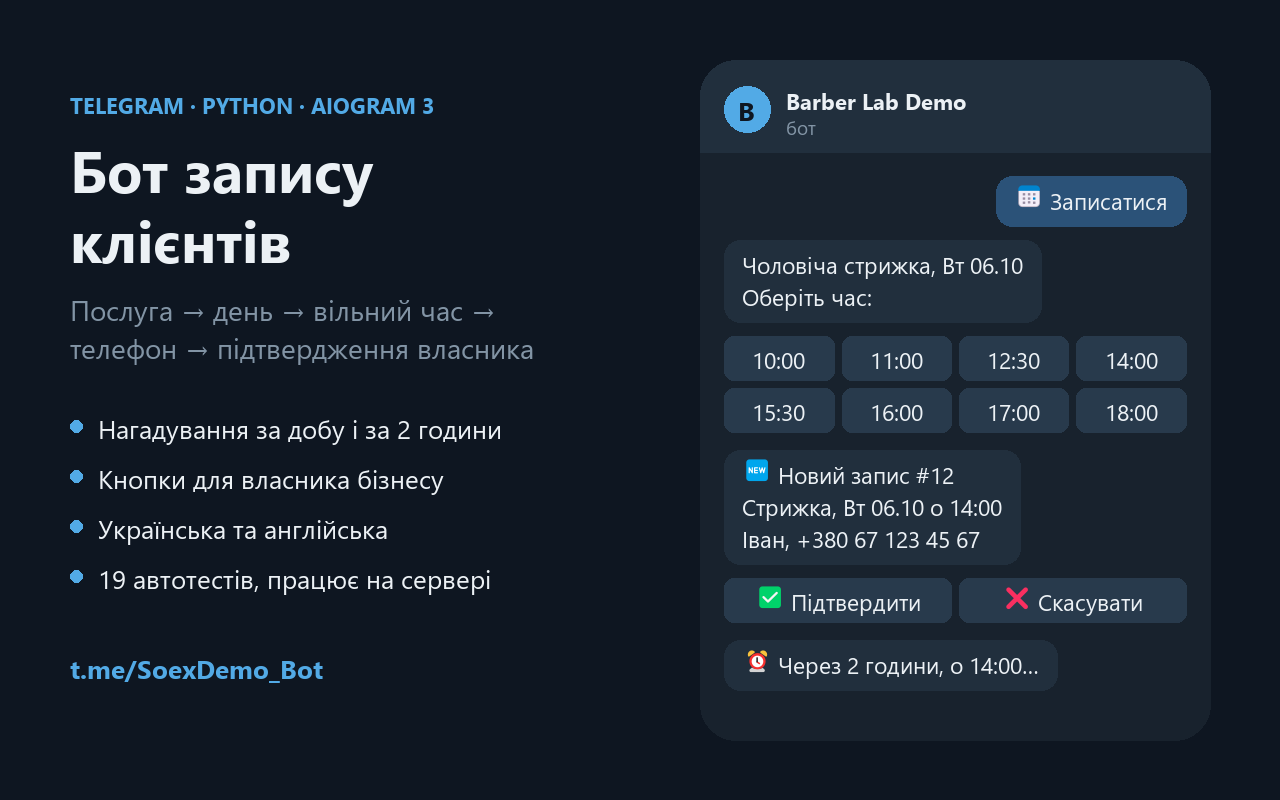
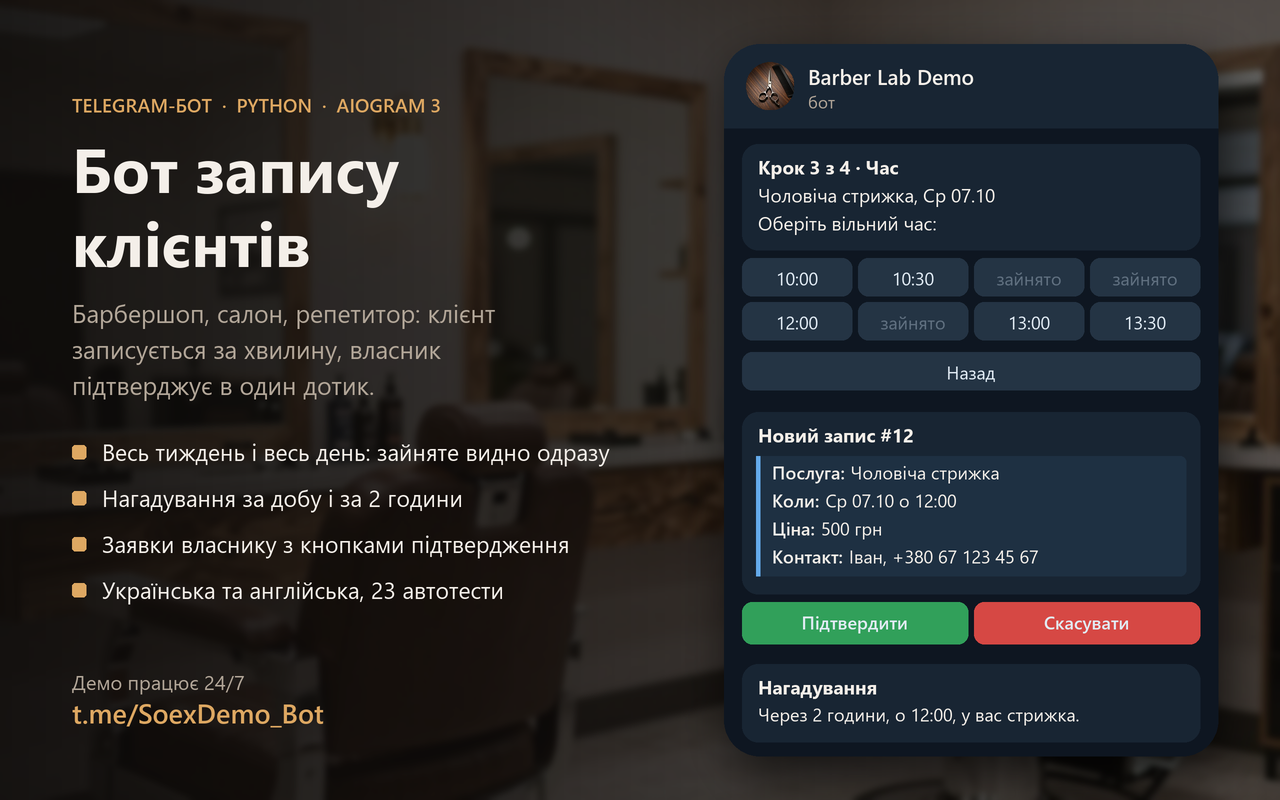
New README cover: the v2 interface over the shop photo

diff --git a/deploy/make_cover.py b/deploy/make_cover.py
@@ -1,99 +1,158 @@
-"""Portfolio cover for the booking bot: a mock Telegram chat. 1280x800, Pillow."""
-from pathlib import Path
-from PIL import Image, ImageDraw, ImageFont
+"""Portfolio cover for the booking bot: the real v2 interface over the shop photo. 1280x800, Pillow.
 
-W, H = 1280, 800
+Drawn at 2x and scaled down, so rounded corners and text edges stay smooth.
+Run: python deploy/make_cover.py
+"""
+from pathlib import Path
+
+from PIL import Image, ImageDraw, ImageFilter, ImageFont
+
+ROOT = Path(__file__).resolve().parent.parent
 OUT = Path(__file__).with_name("cover-booking-bot.png")
+S = 2                                    # supersampling factor
+W, H = 1280 * S, 800 * S
 F = "C:/Windows/Fonts/"
 
-BG = (14, 22, 33)
-CHAT = (24, 34, 45)
-BOT = (33, 47, 61)
-ME = (43, 82, 120)
-BTN = (40, 58, 76)
-ACCENT = (82, 170, 230)
-TEXT = (236, 241, 245)
-MUTED = (130, 148, 165)
+INK = (13, 11, 10)
+BRASS = (222, 168, 98)
+TEXT = (244, 239, 233)
+MUTED = (178, 166, 152)
+CHAT = (14, 22, 33)
+BUBBLE = (24, 37, 51)
+BTN = (36, 52, 68)
+BTN_TEXT = (226, 236, 245)
+BUSY = (96, 112, 128)
+QUOTE_BAR = (100, 170, 235)
+GREEN = (49, 160, 90)
+RED = (214, 72, 68)
 
-img = Image.new("RGB", (W, H), BG)
+
+def font(name, size):
+    return ImageFont.truetype(F + name, size * S)
+
+
+REG, SEMI, BOLD = "segoeui.ttf", "seguisb.ttf", "segoeuib.ttf"
+
+
+def px(*v):
+    return tuple(int(x * S) for x in v)
+
+
+# --- background: the shop photo, darkened from the left where the text sits -------
+photo = Image.open(ROOT / "assets" / "banner.jpg").convert("RGB")
+scale = max(W / photo.width, H / photo.height)
+photo = photo.resize((int(photo.width * scale), int(photo.height * scale)), Image.LANCZOS)
+photo = photo.crop(((photo.width - W) // 2, (photo.height - H) // 2,
+                    (photo.width - W) // 2 + W, (photo.height - H) // 2 + H))
+photo = photo.filter(ImageFilter.GaussianBlur(3 * S))
+
+shade = Image.new("L", (W, H))
+sd = ImageDraw.Draw(shade)
+for x in range(W):
+    k = x / W
+    sd.line([(x, 0), (x, H)], fill=int(255 * (0.94 - 0.30 * k)))   # 94% dark on the left, 64% on the right
+img = Image.composite(Image.new("RGB", (W, H), INK), photo, shade)
 d = ImageDraw.Draw(img)
-f = lambda name, size: ImageFont.truetype(F + name, size)
-EMOJI = ImageFont.truetype(F + "seguiemj.ttf", 22)
-title, sub, body, small = f("segoeuib.ttf", 58), f("segoeui.ttf", 28), f("segoeui.ttf", 23), f("segoeui.ttf", 19)
 
-# left: what it is
-x = 70
-d.text((x, 90), "TELEGRAM · PYTHON · AIOGRAM 3", font=f("segoeuib.ttf", 22), fill=ACCENT)
-d.text((x, 130), "Бот запису", font=title, fill=TEXT)
-d.text((x, 200), "клієнтів", font=title, fill=TEXT)
-d.text((x, 290), "Послуга → день → вільний час →", font=sub, fill=MUTED)
-d.text((x, 328), "телефон → підтвердження власника", font=sub, fill=MUTED)
-y = 410
-for line in ["Нагадування за добу і за 2 години", "Кнопки для власника бізнесу", "Українська та англійська", "19 автотестів, працює на сервері"]:
-    d.ellipse((x, y + 10, x + 12, y + 22), fill=ACCENT)
-    d.text((x + 28, y), line, font=f("segoeui.ttf", 26), fill=TEXT)
-    y += 50
-d.text((x, 650), "t.me/SoexDemo_Bot", font=f("segoeuib.ttf", 26), fill=ACCENT)
+# --- left: what it is -----------------------------------------------------------------
+x = 72
+d.text(px(x, 92), "TELEGRAM-БОТ  ·  PYTHON  ·  AIOGRAM 3", font=font(SEMI, 19), fill=BRASS)
+d.text(px(x, 126), "Бот запису", font=font(BOLD, 62), fill=TEXT)
+d.text(px(x, 200), "клієнтів", font=font(BOLD, 62), fill=TEXT)
+for i, line in enumerate(["Барбершоп, салон, репетитор: клієнт", "записується за хвилину, власник",
+                          "підтверджує в один дотик."]):
+    d.text(px(x, 296 + i * 36), line, font=font(REG, 25), fill=MUTED)
 
-# right: phone-like chat
-px0, py0, px1, py1 = 700, 60, 1210, 740
-d.rounded_rectangle((px0, py0, px1, py1), radius=36, fill=CHAT)
-d.rectangle((px0, py0 + 30, px1, py0 + 92), fill=BOT)
-d.rounded_rectangle((px0, py0, px1, py0 + 92), radius=36, fill=BOT)
-d.ellipse((px0 + 24, py0 + 26, px0 + 70, py0 + 72), fill=ACCENT)
-d.text((px0 + 38, py0 + 32), "B", font=f("segoeuib.ttf", 26), fill=BG)
-d.text((px0 + 86, py0 + 26), "Barber Lab Demo", font=f("segoeuib.ttf", 22), fill=TEXT)
-d.text((px0 + 86, py0 + 54), "бот", font=small, fill=MUTED)
+features = ["Весь тиждень і весь день: зайняте видно одразу",
+            "Нагадування за добу і за 2 години",
+            "Заявки власнику з кнопками підтвердження",
+            "Українська та англійська, 23 автотести"]
+y = 436
+for line in features:
+    d.rounded_rectangle(px(x, y + 9, x + 14, y + 23), radius=3 * S, fill=BRASS)
+    d.text(px(x + 30, y), line, font=font(REG, 23), fill=TEXT)
+    y += 46
 
+d.text(px(x, 668), "Демо працює 24/7", font=font(REG, 20), fill=MUTED)
+d.text(px(x, 694), "t.me/SoexDemo_Bot", font=font(SEMI, 27), fill=BRASS)
 
-def draw_line(x, y, t):
-    """Draw text; a leading emoji goes through the color emoji font."""
-    if t and ord(t[0]) > 0x2000 and not t[0].isalpha():
-        emoji, rest = t.split(" ", 1)
-        d.text((x, y + 3), emoji, font=EMOJI, embedded_color=True)
-        d.text((x + d.textlength(emoji, font=EMOJI) + 6, y), rest, font=body, fill=TEXT)
-    else:
-        d.text((x, y), t, font=body, fill=TEXT)
+# --- right: the chat, drawn like Telegram's dark theme --------------------------------------
+P0X, P0Y, P1X, P1Y = 724, 44, 1218, 756
+shadow = Image.new("L", (W, H), 0)
+ImageDraw.Draw(shadow).rounded_rectangle(px(P0X + 8, P0Y + 18, P1X + 8, P1Y + 18), radius=40 * S, fill=170)
+shadow = shadow.filter(ImageFilter.GaussianBlur(22 * S))
+img.paste(Image.new("RGB", (W, H), (0, 0, 0)), mask=shadow)
+d = ImageDraw.Draw(img)
+d.rounded_rectangle(px(P0X, P0Y, P1X, P1Y), radius=36 * S, fill=CHAT)
 
+# header with the real avatar
+d.rounded_rectangle(px(P0X, P0Y, P1X, P0Y + 84), radius=36 * S, fill=BUBBLE)
+d.rectangle(px(P0X, P0Y + 50, P1X, P0Y + 84), fill=BUBBLE)
+ava = Image.open(ROOT / "assets" / "avatar.jpg").convert("RGB").resize(px(48, 48), Image.LANCZOS)
+mask = Image.new("L", ava.size, 0)
+ImageDraw.Draw(mask).ellipse((0, 0, *ava.size), fill=255)
+img.paste(ava, px(P0X + 22, P0Y + 18), mask)
+d.text(px(P0X + 84, P0Y + 18), "Barber Lab Demo", font=font(SEMI, 21), fill=TEXT)
+d.text(px(P0X + 84, P0Y + 46), "бот", font=font(REG, 17), fill=MUTED)
 
-def line_width(t):
-    if t and ord(t[0]) > 0x2000 and not t[0].isalpha():
-        emoji, rest = t.split(" ", 1)
-        return d.textlength(emoji, font=EMOJI) + 6 + d.textlength(rest, font=body)
-    return d.textlength(t, font=body)
-
-
-def bubble(y, text_lines, mine=False):
-    w = max(line_width(t) for t in text_lines) + 36
-    h = 18 + 32 * len(text_lines)
-    x1 = px1 - 24 if mine else px0 + 24 + w
-    x0 = x1 - w
-    d.rounded_rectangle((x0, y, x1, y + h), radius=16, fill=ME if mine else BOT)
-    for i, t in enumerate(text_lines):
-        draw_line(x0 + 18, y + 9 + 32 * i, t)
-    return y + h + 14
+PAD = 18
+L, R = P0X + PAD, P1X - PAD
 
 
-def buttons(y, rows):
-    bw_total = px1 - px0 - 48
-    for row in rows:
-        bw = (bw_total - 8 * (len(row) - 1)) / len(row)
-        for i, label in enumerate(row):
-            bx = px0 + 24 + i * (bw + 8)
-            d.rounded_rectangle((bx, y, bx + bw, y + 44), radius=10, fill=BTN)
-            tw = line_width(label)
-            draw_line(bx + (bw - tw) / 2, y + 8, label)
-        y += 52
-    return y + 10
+def bubble(y, lines, quote=None, width=None):
+    """A bot message: plain lines, then an optional quote block with a coloured bar."""
+    lh = 28
+    h = 16 + lh * len(lines) + (12 + lh * len(quote) + 8 if quote else 0) + 6
+    w = width or (R - L)
+    d.rounded_rectangle(px(L, y, L + w, y + h), radius=16 * S, fill=BUBBLE)
+    cy = y + 10
+    for text, f in lines:
+        d.text(px(L + 16, cy), text, font=f, fill=TEXT)
+        cy += lh
+    if quote:
+        cy += 6
+        qh = lh * len(quote) + 8
+        d.rounded_rectangle(px(L + 14, cy, R - 14, cy + qh), radius=6 * S, fill=(30, 48, 66))
+        d.rectangle(px(L + 14, cy, L + 18, cy + qh), fill=QUOTE_BAR)
+        for i, (label, value) in enumerate(quote):
+            qx = L + 30
+            d.text(px(qx, cy + 4 + i * lh), label, font=font(SEMI, 18), fill=TEXT)
+            lw = d.textlength(label, font=font(SEMI, 18)) / S
+            d.text(px(qx + lw + 6, cy + 4 + i * lh), value, font=font(REG, 18), fill=TEXT)
+    return y + h + 8
 
 
-y = py0 + 116
-y = bubble(y, ["📅 Записатися"], mine=True)
-y = bubble(y, ["Чоловіча стрижка, Вт 06.10", "Оберіть час:"])
-y = buttons(y, [["10:00", "11:00", "12:30", "14:00"], ["15:30", "16:00", "17:00", "18:00"]])
-y = bubble(y, ["🆕 Новий запис #12", "Стрижка, Вт 06.10 о 14:00", "Іван, +380 67 123 45 67"])
-y = buttons(y, [["✅ Підтвердити", "❌ Скасувати"]])
-bubble(y, ["⏰ Через 2 години, о 14:00…"])
+def button_row(y, labels, cols, h=40, gap=6):
+    bw = (R - L - gap * (cols - 1)) / cols
+    for i, (label, kind) in enumerate(labels):
+        r, c = divmod(i, cols)
+        bx, by = L + c * (bw + gap), y + r * (h + gap)
+        fill = {"green": GREEN, "red": RED}.get(kind, BTN)
+        color = BUSY if kind == "busy" else BTN_TEXT
+        f = font(SEMI if kind in ("green", "red") else REG, 18)
+        d.rounded_rectangle(px(bx, by, bx + bw, by + h), radius=10 * S, fill=fill)
+        tw = d.textlength(label, font=f) / S
+        d.text(px(bx + (bw - tw) / 2, by + 8), label, font=f, fill=color)
+    rows = (len(labels) + cols - 1) // cols
+    return y + rows * (h + gap) + 6
 
+
+y = P0Y + 100
+y = bubble(y, [("Крок 3 з 4 · Час", font(BOLD, 19)),
+               ("Чоловіча стрижка, Ср 07.10", font(REG, 19)),
+               ("Оберіть вільний час:", font(REG, 19))])
+slots = [("10:00", ""), ("10:30", ""), ("зайнято", "busy"), ("зайнято", "busy"),
+         ("12:00", ""), ("зайнято", "busy"), ("13:00", ""), ("13:30", "")]
+y = button_row(y, slots, cols=4, h=38)
+y = button_row(y, [("Назад", "")], cols=1, h=38) + 10
+
+y = bubble(y, [("Новий запис #12", font(BOLD, 19))],
+           quote=[("Послуга:", "Чоловіча стрижка"), ("Коли:", "Ср 07.10 о 12:00"),
+                  ("Ціна:", "500 грн"), ("Контакт:", "Іван, +380 67 123 45 67")])
+y = button_row(y, [("Підтвердити", "green"), ("Скасувати", "red")], cols=2, h=42) + 8
+
+bubble(y, [("Нагадування", font(BOLD, 19)), ("Через 2 години, о 12:00, у вас стрижка.", font(REG, 18))])
+
+img = img.resize((W // S, H // S), Image.LANCZOS)
 img.save(OUT, optimize=True)
 print(OUT, img.size)
